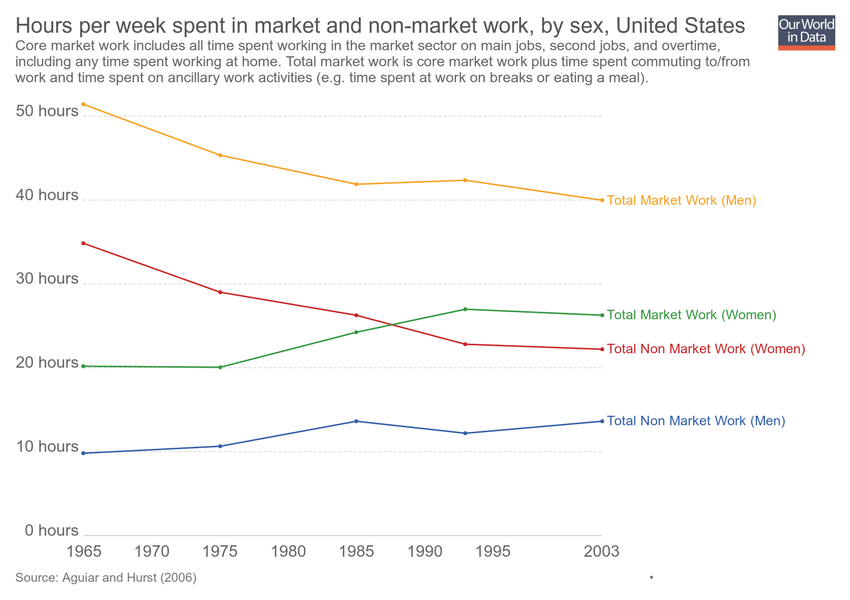
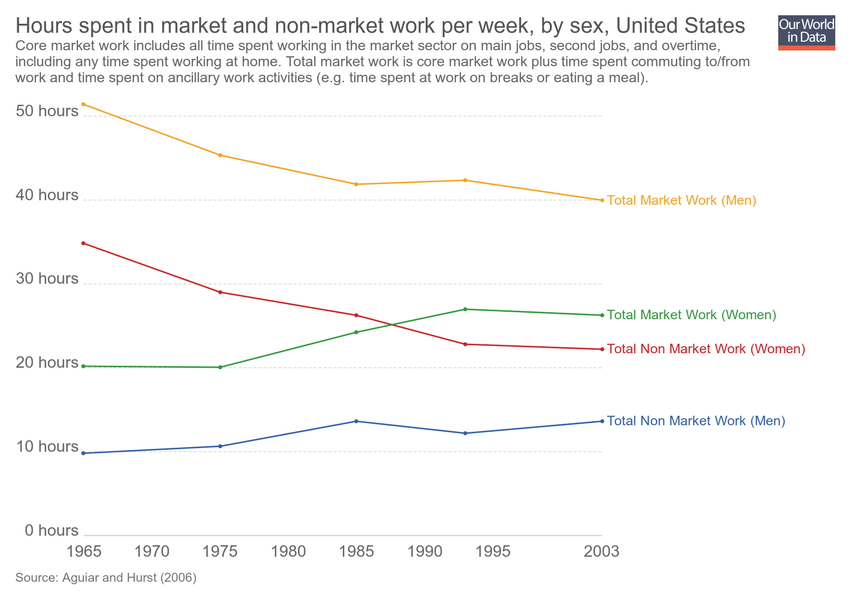
Updating chart hours-per-week-spent-in-market-and-non-market-work-by-sex-united-states

Changed region(s): [[0.0918, 0.03, 0.6118, 0.06]]

diff --git a/grapher/hours-per-week-spent-in-market-and-non-market-work-by-sex-united-states.html b/grapher/hours-per-week-spent-in-market-and-non-market-work-by-sex-united-states.html
@@ -1,4 +1,4 @@
-<!doctype html><html><head><meta name="viewport" content="width=device-width, initial-scale=1" /><title>Hours per week spent in market and non-market work, by sex, United States - Our World in Data</title><meta name="description" content="Core market work includes all time spent working in the market sector on main jobs, second jobs, and overtime, including any time spent working at home. Total market work is core market work plus time spent commuting to/from work and time spent on ancillary work activities (e.g. time spent at work on breaks or eating a meal). " /><link rel="canonical" href="https://ourworldindata.org/grapher/hours-per-week-spent-in-market-and-non-market-work-by-sex-united-states" /><meta property="fb:app_id" content="1149943818390250" /><meta property="og:url" content="https://ourworldindata.org/grapher/hours-per-week-spent-in-market-and-non-market-work-by-sex-united-states" /><meta property="og:title" content="Hours per week spent in market and non-market work, by sex, United States" /><meta property="og:description" content="Core market work includes all time spent working in the market sector on main jobs, second jobs, and overtime, including any time spent working at home. Total market work is core market work plus time spent commuting to/from work and time spent on ancillary work activities (e.g. time spent at work on breaks or eating a meal). " /><meta property="og:image" content="https://ourworldindata.org/grapher/exports/hours-per-week-spent-in-market-and-non-market-work-by-sex-united-states.png?v=1" /><meta property="og:image:width" content="850" /><meta property="og:image:height" content="600" /><meta property="og:site_name" content="Our World in Data" /><meta name="twitter:card" content="summary_large_image" /><meta name="twitter:site" content="@OurWorldInData" /><meta name="twitter:creator" content="@OurWorldInData" /><meta name="twitter:title" content="Hours per week spent in market and non-market work, by sex, United States" /><meta name="twitter:description" content="Core market work includes all time spent working in the market sector on main jobs, second jobs, and overtime, including any time spent working at home. Total market work is core market work plus time spent commuting to/from work and time spent on ancillary work activities (e.g. time spent at work on breaks or eating a meal). " /><meta name="twitter:image" content="https://ourworldindata.org/grapher/exports/hours-per-week-spent-in-market-and-non-market-work-by-sex-united-states.png?v=1" /><style>
+<!doctype html><html><head><meta name="viewport" content="width=device-width, initial-scale=1" /><title>Hours spent in market and non-market work per week, by sex, United States - Our World in Data</title><meta name="description" content="Core market work includes all time spent working in the market sector on main jobs, second jobs, and overtime, including any time spent working at home. Total market work is core market work plus time spent commuting to/from work and time spent on ancillary work activities (e.g. time spent at work on breaks or eating a meal). " /><link rel="canonical" href="https://ourworldindata.org/grapher/hours-per-week-spent-in-market-and-non-market-work-by-sex-united-states" /><meta property="fb:app_id" content="1149943818390250" /><meta property="og:url" content="https://ourworldindata.org/grapher/hours-per-week-spent-in-market-and-non-market-work-by-sex-united-states" /><meta property="og:title" content="Hours spent in market and non-market work per week, by sex, United States" /><meta property="og:description" content="Core market work includes all time spent working in the market sector on main jobs, second jobs, and overtime, including any time spent working at home. Total market work is core market work plus time spent commuting to/from work and time spent on ancillary work activities (e.g. time spent at work on breaks or eating a meal). " /><meta property="og:image" content="https://ourworldindata.org/grapher/exports/hours-per-week-spent-in-market-and-non-market-work-by-sex-united-states.png?v=2" /><meta property="og:image:width" content="850" /><meta property="og:image:height" content="600" /><meta property="og:site_name" content="Our World in Data" /><meta name="twitter:card" content="summary_large_image" /><meta name="twitter:site" content="@OurWorldInData" /><meta name="twitter:creator" content="@OurWorldInData" /><meta name="twitter:title" content="Hours spent in market and non-market work per week, by sex, United States" /><meta name="twitter:description" content="Core market work includes all time spent working in the market sector on main jobs, second jobs, and overtime, including any time spent working at home. Total market work is core market work plus time spent commuting to/from work and time spent on ancillary work activities (e.g. time spent at work on breaks or eating a meal). " /><meta name="twitter:image" content="https://ourworldindata.org/grapher/exports/hours-per-week-spent-in-market-and-non-market-work-by-sex-united-states.png?v=2" /><style>
         html, body {
             height: 100%;
             margin: 0;
@@ -20,8 +20,8 @@
         }
     </style><noscript><style>
                     figure { display: none !important; }
-                </style></noscript><link rel="stylesheet" href="https://ourworldindata.org/grapher/assets/commons.bundle.b9f051796dbbbb7e5139.css" /><link rel="preload" href="/grapher/data/variables/97540.json?v=1" as="fetch" crossorigin /></head><body class="singleChart"><figure data-grapher-src="/grapher/hours-per-week-spent-in-market-and-non-market-work-by-sex-united-states"></figure><noscript id="fallback"><img src="/grapher/exports/hours-per-week-spent-in-market-and-non-market-work-by-sex-united-states.svg" /><p>Interactive visualization requires JavaScript</p></noscript><script src="https://cdn.polyfill.io/v2/polyfill.min.js?features=es6,fetch"></script><script src="https://ourworldindata.org/grapher/assets/commons.bundle.b9f051796dbbbb7e5139.js"></script><script src="https://ourworldindata.org/grapher/assets/charts.bundle.b9f051796dbbbb7e5139.js"></script><script>
-        var jsonConfig = {"map":{"projection":"World","colorSchemeLabels":[],"colorSchemeValues":[],"customNumericColors":[],"customCategoryColors":{},"customCategoryLabels":{},"customHiddenCategories":{}},"tab":"chart","slug":"hours-per-week-spent-in-market-and-non-market-work-by-sex-united-states","type":"LineChart","title":"Hours per week spent in market and non-market work, by sex, United States","xAxis":{"scaleType":"linear"},"yAxis":{"min":0,"scaleType":"linear"},"version":1,"subtitle":"Core market work includes all time spent working in the market sector on main jobs, second jobs, and overtime, including any time spent working at home. Total market work is core market work plus time spent commuting to/from work and time spent on ancillary work activities (e.g. time spent at work on breaks or eating a meal). ","hasMapTab":false,"stackMode":"absolute","dimensions":[{"display":{"unit":"hours per week","shortUnit":"hours"},"property":"y","variableId":97540}],"entityType":"data","isAutoSlug":true,"hasChartTab":true,"isPublished":true,"selectedData":[{"index":0,"entityId":37629},{"index":0,"entityId":37631},{"index":0,"entityId":37623},{"index":0,"entityId":37625}],"addCountryMode":"add-country","baseColorScheme":"owid-distinct","id":2756};
+                </style></noscript><link rel="stylesheet" href="https://ourworldindata.org/grapher/assets/commons.bundle.b9f051796dbbbb7e5139.css" /><link rel="preload" href="/grapher/data/variables/97540.json?v=2" as="fetch" crossorigin /></head><body class="singleChart"><figure data-grapher-src="/grapher/hours-per-week-spent-in-market-and-non-market-work-by-sex-united-states"></figure><noscript id="fallback"><img src="/grapher/exports/hours-per-week-spent-in-market-and-non-market-work-by-sex-united-states.svg" /><p>Interactive visualization requires JavaScript</p></noscript><script src="https://cdn.polyfill.io/v2/polyfill.min.js?features=es6,fetch"></script><script src="https://ourworldindata.org/grapher/assets/commons.bundle.b9f051796dbbbb7e5139.js"></script><script src="https://ourworldindata.org/grapher/assets/charts.bundle.b9f051796dbbbb7e5139.js"></script><script>
+        var jsonConfig = {"id":2756,"map":{"projection":"World","colorSchemeLabels":[],"colorSchemeValues":[],"customNumericColors":[],"customCategoryColors":{},"customCategoryLabels":{},"customHiddenCategories":{}},"tab":"chart","slug":"hours-per-week-spent-in-market-and-non-market-work-by-sex-united-states","type":"LineChart","title":"Hours spent in market and non-market work per week, by sex, United States","xAxis":{"scaleType":"linear"},"yAxis":{"min":0,"scaleType":"linear"},"version":2,"subtitle":"Core market work includes all time spent working in the market sector on main jobs, second jobs, and overtime, including any time spent working at home. Total market work is core market work plus time spent commuting to/from work and time spent on ancillary work activities (e.g. time spent at work on breaks or eating a meal). ","hasMapTab":false,"stackMode":"absolute","dimensions":[{"display":{"unit":"hours per week","shortUnit":"hours"},"property":"y","variableId":97540}],"entityType":"data","hasChartTab":true,"isPublished":true,"selectedData":[{"index":0,"entityId":37629},{"index":0,"entityId":37631},{"index":0,"entityId":37623},{"index":0,"entityId":37625}],"addCountryMode":"add-country","baseColorScheme":"owid-distinct"};
         var figure = document.getElementsByTagName("figure")[0];
         try {
             window.App = {};
